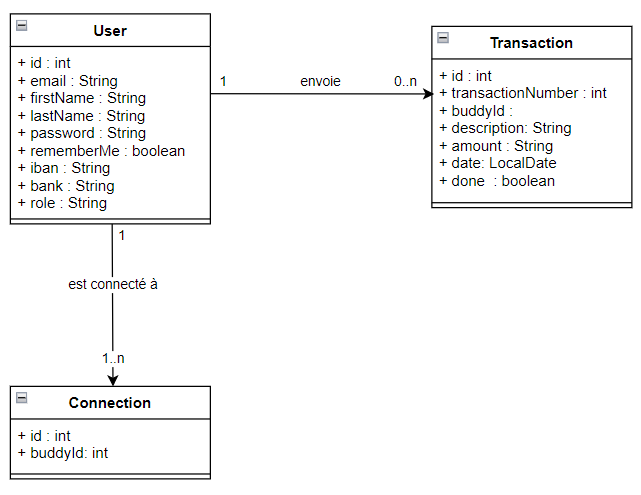
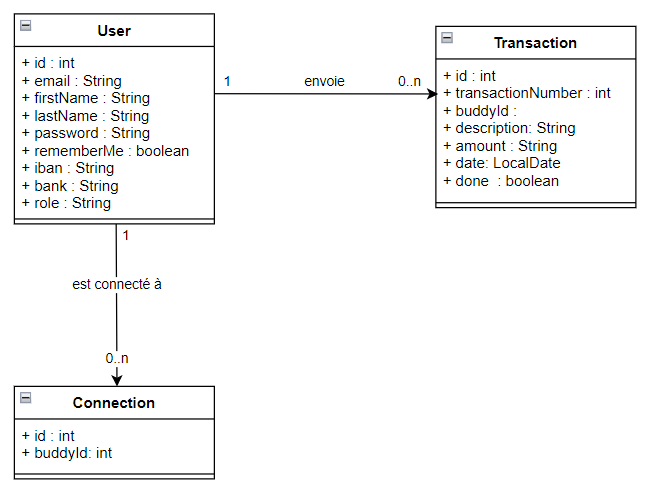
Page buttons on Home Page

Changed region(s): [[0.0, 0.0305, 0.9984, 0.9756]]

diff --git a/src/main/resources/templates/home.html b/src/main/resources/templates/home.html
@@ -84,7 +84,7 @@
         </div>
 		
 		<!-- My activities table -->
-		<div class="row col-md-8 col-xs-12 mx-auto my-4">
+		<div class="row col-md-8 col-xs-12 mx-auto mt-4">
 			<p class="fs-5 mb-0">My activities</p>
 			<table class="table table-striped border border-secondary text-center">
 				<thead>
@@ -112,7 +112,34 @@
 					</tr>
 				</tbody>
 			</table>
-		
+		</div>
+		<div class="row col-md-8 col-xs-12 mx-auto mb-4">
+			<div class="col align-self-center">
+				<ul class="nav nav justify-content-center">
+					<li th:if="${currentPage}>1">
+						<a class="text-primary border border-secondary fs-5 px-3 py-2" 
+							th:href="@{home(message='',page=${currentPage-1})}">&#10218;
+						</a>
+					</li>
+					<li th:each="p:${pages}">
+						<a th:if="${p}==${currentPage}" 
+							class="text-info border border-secondary fs-5 px-3 py-2" 
+							th:text="${p}" 
+							th:href="@{home(message='',page=${p})}">
+						</a>
+						<a th:if="${p}!=${currentPage}" 
+							class="text-primary border border-secondary fs-5 px-3 py-2" 
+							th:text="${p}" 
+							th:href="@{home(message='',page=${p})}">
+						</a>
+					</li>
+					<li th:if="${currentPage}<${maxPage}">
+						<a class="text-primary border border-secondary fs-5 px-3 py-2" 
+							th:href="@{home(message='',page=${currentPage+1})}">&#10219;
+						</a>
+					</li>
+				</ul>
+			</div>
 		</div>
 		
 	</div>

diff --git a/src/main/java/fr/marc/paymybuddy/controller/UserController.java b/src/main/java/fr/marc/paymybuddy/controller/UserController.java
@@ -120,7 +120,9 @@ public class UserController {
 	 * Page "Home"
 	*/
 	@GetMapping("/home")
-	public String displayHomePageById(Model model, @RequestParam String message) {
+	public String displayHomePageById(Model model, 
+			@RequestParam String message, 
+			@RequestParam(name="page", defaultValue="1") int page) {
     	
 		String connectedEmail = SecurityContextHolder.getContext().getAuthentication().getName();
 		User user = userService.getUserByEmail(connectedEmail).get();
@@ -136,7 +138,18 @@ public class UserController {
 		model.addAttribute("balance",balance);
 		
 		List<ActivityDTO> activities = transactionService.getActivityById(user.getId());
-		model.addAttribute("activities",activities);
+		int linesNumber = 3;
+		int start = (page-1)*linesNumber;
+		int end = Math.min(page*linesNumber,activities.size());
+		model.addAttribute("activities",activities.subList(start,end));
+		
+		int pagesNumber = (int) (Math.ceil(((float)activities.size()/(float)linesNumber)));
+		int[] pages = new int[pagesNumber];
+		for(int i=0;i<pagesNumber;i++) pages[i]=i+1;
+		model.addAttribute("pages",pages);
+		
+		model.addAttribute("currentPage",page);
+		model.addAttribute("maxPage",pagesNumber);
 		
 		BankOrderDTO bankOrderDTO = new BankOrderDTO();
 		model.addAttribute("bankOrderDTO",bankOrderDTO);
@@ -177,9 +190,11 @@ public class UserController {
     @PostMapping(value = "/saveUser")
     public String saveUser(@ModelAttribute("modify") User user) {
 		String connectedEmail = SecurityContextHolder.getContext().getAuthentication().getName();
-    	user.setId(userService.getUserByEmail(connectedEmail).get().getId());
+		User userConnected = userService.getUserByEmail(connectedEmail).get();
+    	user.setId(userConnected.getId());
     	user.setEmail(connectedEmail);
-    	user.setPassword(userService.getUserByEmail(connectedEmail).get().getEmail());
+    	user.setPassword(userConnected.getPassword());
+    	user.setRole(userConnected.getRole());
 		log.info("POST request - endpoint /saveUser - body = {}",user);
 		userService.addUser(user);
     	return "redirect:/profile";

diff --git a/src/test/java/fr/marc/paymybuddy/controller/UserControllerTest.java b/src/test/java/fr/marc/paymybuddy/controller/UserControllerTest.java
@@ -119,7 +119,7 @@ public class UserControllerTest {
 	
 	// End point "/user"
 	@Nested
-	@WithMockUser (roles="ADMIN")
+	@WithMockUser (authorities="ADMIN")
 	class GetUserById {
 		@Test
 	    public void success() throws Exception {
@@ -264,7 +264,7 @@ public class UserControllerTest {
     
     // End point "/user" POST
     @Test
-	@WithMockUser
+	@WithMockUser (authorities="ADMIN")
     public void testAddAUser() throws Exception {
 		ObjectMapper mapper = new ObjectMapper(); 
 		testUser = User.builder()
@@ -272,7 +272,6 @@ public class UserControllerTest {
 			.firstName("Prénom1")
 			.lastName("Nom1")
 			.password("111")
-			.rememberMe(false)
 			.iban("FR001")
 			.bank("Banque1")
 			.build();
@@ -295,7 +294,6 @@ public class UserControllerTest {
 			.firstName("Prénom2")
 			.lastName("Nom2")
 			.password("222")
-			.rememberMe(false)
 			.iban("FR002")
 			.bank("Banque2")
 			.role("USER")
@@ -324,15 +322,13 @@ public class UserControllerTest {
 	
     // End point "/user" DELETE
     @Test
-	@WithMockUser
+	@WithMockUser (authorities="ADMIN")
     public void testDeleteAUser() throws Exception {
-		ObjectMapper mapper = new ObjectMapper(); 
 		testUser = User.builder()
 			.email("user3@mail.fr")
 			.firstName("Prénom3")
 			.lastName("Nom3")
 			.password("333")
-			.rememberMe(false)
 			.iban("FR003")
 			.bank("Banque3")
 			.build();

diff --git a/src/test/java/fr/marc/paymybuddy/serviceImpl/TransactionServiceImplTest.java b/src/test/java/fr/marc/paymybuddy/serviceImpl/TransactionServiceImplTest.java
@@ -71,7 +71,6 @@ public class TransactionServiceImplTest {
 				.firstName("Prénom1")
 				.lastName("Nom1")
 				.password("111")
-				.rememberMe(false)
 				.iban("FR001")
 				.bank("Banque1")
 				.build();
@@ -81,7 +80,6 @@ public class TransactionServiceImplTest {
 				.firstName("Prénom2")
 				.lastName("Nom2")
 				.password("222")
-				.rememberMe(false)
 				.iban("FR002")
 				.bank("Banque2")
 				.build();
@@ -200,7 +198,6 @@ public class TransactionServiceImplTest {
 					.firstName("")
 					.lastName("")
 					.password("admin123")
-					.rememberMe(false)
 					.iban("FR001")
 					.bank("Banque1")
 					.build();
@@ -283,7 +280,6 @@ public class TransactionServiceImplTest {
 					.firstName("")
 					.lastName("")
 					.password("admin123")
-					.rememberMe(false)
 					.iban("FR001")
 					.bank("Banque1")
 					.build();
@@ -364,7 +360,6 @@ public class TransactionServiceImplTest {
 					.firstName("")
 					.lastName("")
 					.password("admin123")
-					.rememberMe(false)
 					.iban("FR001")
 					.bank("Banque1")
 					.build();

diff --git a/src/main/java/fr/marc/paymybuddy/serviceImpl/TransactionServiceImpl.java b/src/main/java/fr/marc/paymybuddy/serviceImpl/TransactionServiceImpl.java
@@ -10,6 +10,9 @@ import java.util.Optional;
 import org.apache.logging.log4j.LogManager;
 import org.apache.logging.log4j.Logger;
 import org.springframework.beans.factory.annotation.Autowired;
+import org.springframework.data.domain.Page;
+import org.springframework.data.domain.PageImpl;
+import org.springframework.data.domain.PageRequest;
 import org.springframework.stereotype.Service;
 
 import fr.marc.paymybuddy.DTO.ActivityDTO;
@@ -160,6 +163,12 @@ public class TransactionServiceImpl implements ITransactionService {
 			activityDTO.setAmount(a.getAmount());
 			activitiesDTO.add(activityDTO);
 		});
+		//Page<ActivityDTO> activitiesPage = activitiesDTO(new PageRequest(0,5));
+		//int lineNumber = 5;
+		//int start = (page-1)*lineNumber;
+		//int end = Math.min(page*lineNumber,activitiesDTO.size());
+		//System.out.println("Page "+page+" : " + activitiesDTO.subList(start,end));
+		
 		return activitiesDTO;
 	}
 	

diff --git a/src/test/java/fr/marc/paymybuddy/serviceImpl/ConnectionServiceImplTest.java b/src/test/java/fr/marc/paymybuddy/serviceImpl/ConnectionServiceImplTest.java
@@ -60,7 +60,6 @@ public class ConnectionServiceImplTest {
 				.firstName("Prénom1")
 				.lastName("Nom1")
 				.password("111")
-				.rememberMe(false)
 				.iban("FR001")
 				.bank("Banque1")
 				.build();
@@ -70,7 +69,6 @@ public class ConnectionServiceImplTest {
 				.firstName("Prénom2")
 				.lastName("Nom2")
 				.password("222")
-				.rememberMe(false)
 				.iban("FR002")
 				.bank("Banque2")
 				.build();
@@ -80,7 +78,6 @@ public class ConnectionServiceImplTest {
 				.firstName("Prénom3")
 				.lastName("Nom3")
 				.password("333")
-				.rememberMe(false)
 				.iban("FR003")
 				.bank("Banque3")
 				.build();
@@ -197,7 +194,5 @@ public class ConnectionServiceImplTest {
 		assertThat(idCaptor.getValue()).isEqualTo(1);
 		verify(connectionRepository).deleteById(1);
 	}
-	
-	// TODO : newBuddyAvailabilityMessage
 	
 }

diff --git a/src/test/java/fr/marc/paymybuddy/serviceImpl/UserServiceImplTest.java b/src/test/java/fr/marc/paymybuddy/serviceImpl/UserServiceImplTest.java
@@ -48,7 +48,6 @@ public class UserServiceImplTest {
 				.firstName("Prénom1")
 				.lastName("Nom1")
 				.password("111")
-				.rememberMe(false)
 				.iban("FR001")
 				.bank("Banque1")
 				.build();
@@ -58,7 +57,6 @@ public class UserServiceImplTest {
 				.firstName("Prénom2")
 				.lastName("Nom2")
 				.password("222")
-				.rememberMe(false)
 				.iban("FR002")
 				.bank("Banque2")
 				.build();
@@ -158,7 +156,6 @@ public class UserServiceImplTest {
 				.firstName("Prénom3")
 				.lastName("Nom3")
 				.password("333")
-				.rememberMe(false)
 				.iban("FR003")
 				.bank("Banque3")
 				.build();

diff --git a/src/test/java/fr/marc/paymybuddy/controller/ConnectionControllerTest.java b/src/test/java/fr/marc/paymybuddy/controller/ConnectionControllerTest.java
@@ -58,7 +58,7 @@ public class ConnectionControllerTest {
 	
 	// End point "/connection" POST
 	@Test
-	@WithMockUser
+	@WithMockUser (authorities="ADMIN")
     public void addAConnectionTest() throws Exception {
 		ObjectMapper mapper = new ObjectMapper();
 		Connection testConnection = Connection.builder()
@@ -153,7 +153,7 @@ public class ConnectionControllerTest {
 	
 	// End point "/connection" DELETE
 	@Test
-	@WithMockUser
+	@WithMockUser (authorities="ADMIN")
     public void deleteAConnectionTest() throws Exception {
 		Connection testConnection = Connection.builder()
 				.buddyId(5)

diff --git a/src/main/java/fr/marc/paymybuddy/controller/TransactionController.java b/src/main/java/fr/marc/paymybuddy/controller/TransactionController.java
@@ -61,17 +61,6 @@ public class TransactionController {
     }
     
 	/*
-	@ResponseBody
-    @PostMapping(value = "/transaction")
-    public Transaction addTransaction (@RequestParam int userId, @RequestBody Transaction transaction) {
-		log.info("POST request - endpoint /transaction - body = "+transaction);
-		User user = userService.getUserById(userId).get();
-		transaction.setUser(user);
-    	return transactionService.addTransaction(transaction);
-    }
-    */
-
-	/*
 	 * Page "Transfer"
 	 * Display buddies list, gifts to buddy list
 	 * and a form to send money to a buddy

diff --git a/src/test/java/fr/marc/paymybuddy/controller/TransactionControllerTest.java b/src/test/java/fr/marc/paymybuddy/controller/TransactionControllerTest.java
@@ -72,7 +72,7 @@ public class TransactionControllerTest {
 	
 	// End point "/transactions"
 	@Test
-	@WithMockUser
+	@WithMockUser (authorities="ADMIN")
     public void getTransactions() throws Exception {
         mockMvc.perform(get("/transactions"))
             .andExpect(status().isOk())
@@ -86,7 +86,7 @@ public class TransactionControllerTest {
 	
 	// End point "/transaction"
 	@Nested
-	@WithMockUser
+	@WithMockUser (authorities="ADMIN")
 	class GetTransactionById {
 		@Test
 	    public void success() throws Exception {

diff --git a/src/main/java/fr/marc/paymybuddy/service/ITransactionService.java b/src/main/java/fr/marc/paymybuddy/service/ITransactionService.java
@@ -26,6 +26,7 @@ public interface ITransactionService {
 	public List<Transaction> getActivity(Integer id);
 	
 	public List<ActivityDTO> getActivityById(Integer id);
+	//public List<ActivityDTO> getActivityById(Integer id, Integer page);
 	
 	public List<ActivityDTO> getTransactionsById(Integer id);
 	
@@ -38,7 +39,5 @@ public interface ITransactionService {
 	int getNextTransactionNumber();
 
 	String getProjectedBalance(String balance, String amount);
-
-	//SendMoneyDTO convertToSendMoney(BankOrderDTO bankOrderDTO);
 
 }

diff --git a/src/main/java/fr/marc/paymybuddy/model/User.java b/src/main/java/fr/marc/paymybuddy/model/User.java
@@ -42,9 +42,6 @@ public class User {
 	@Column(name = "password")
 	private String password;
 
-	@Column(name = "remember_me")
-	private boolean rememberMe;
-
 	@Column(name = "iban")
 	private String iban;
 
